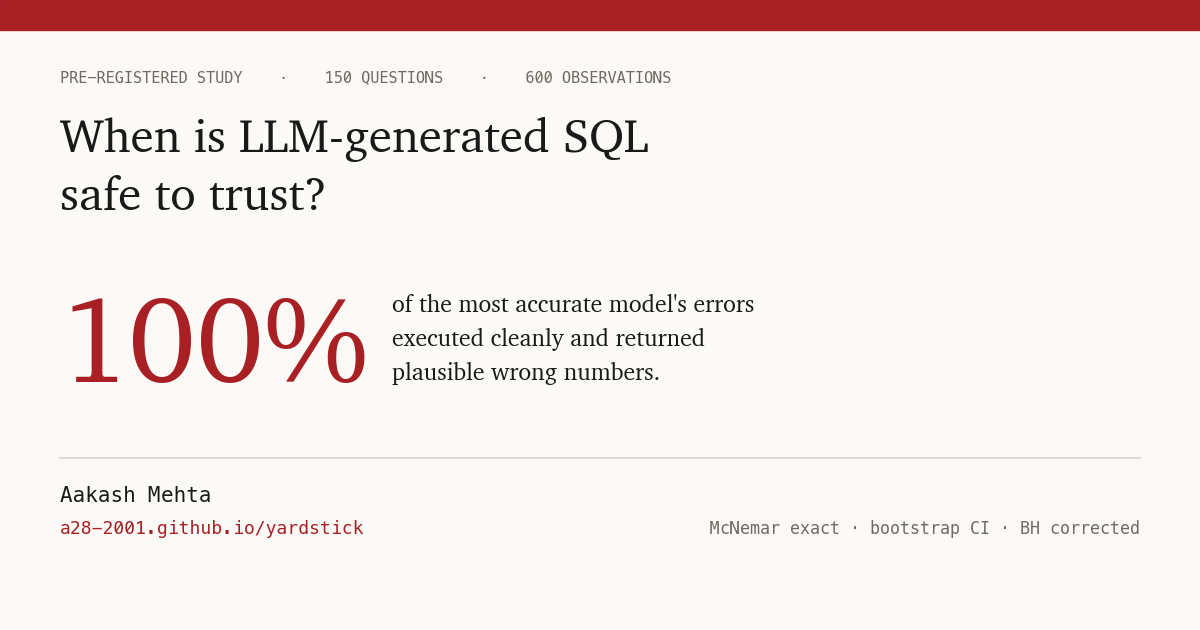
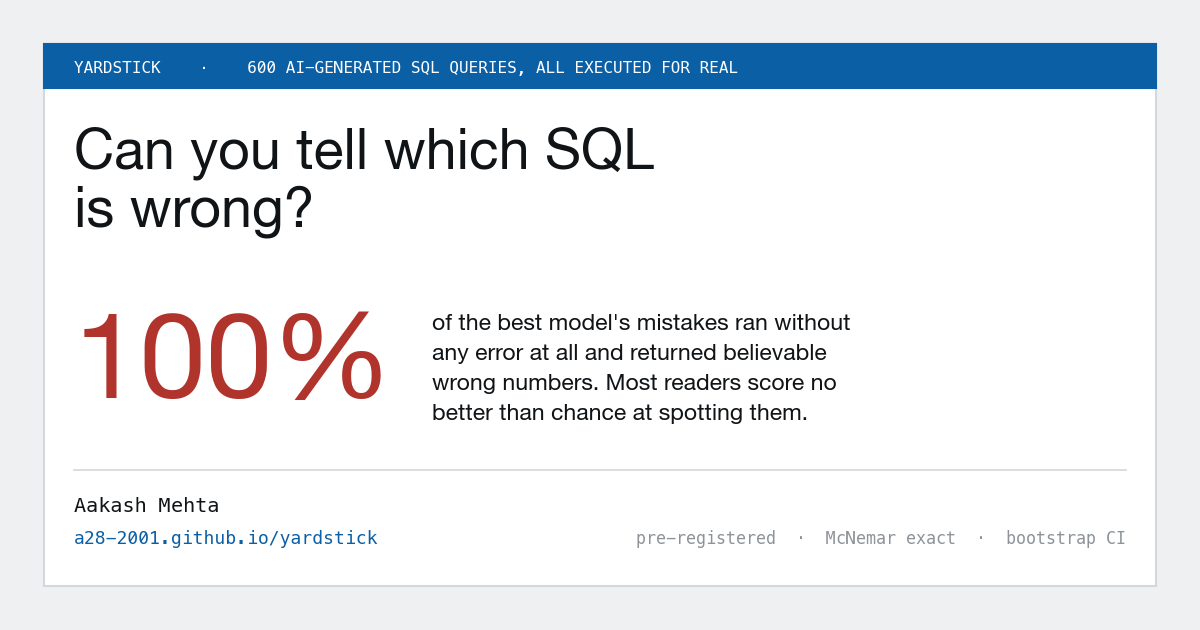
Rebuild the share card to match the landing page it links to
The card still carried the report's identity: the old title, Charter serif, warm cream, clinical red. The page it opens is the quiz, in cool greys with an instrument blue. A card that promises one thing and delivers another is a small broken promise at the worst possible moment, the second before someone decides whether to click.

Now matched to the landing page: same greys and panel, the same accent blue in a filled header bar, sans for display and mono for labels. The headline is the page's actual question rather than the report's, and the supporting line names the thing the quiz demonstrates: most readers score no better than chance.

Also tightened the gap between the number and its sentence; at 92pt the percent sign was almost touching the text.

diff --git a/scripts/make_figures.py b/scripts/make_figures.py
@@ -341,46 +341,60 @@ def fig_taxonomy():
 def fig_sharecard():
     """1200x630 open-graph card. Link scrapers crop to roughly 1.91:1 and render at
     thumbnail size, so a chart pasted in is unreadable. This is built for that size:
-    one number, one sentence, nothing else."""
+    one question, one number, nothing else.
+
+    Deliberately matched to the landing page rather than the report: same greys, the same
+    instrument blue, sans for display and mono for labels. A card promising one look and
+    delivering another is a small broken promise at the worst possible moment."""
     rows = {r["variant"]: r for r in read("variant_summary.csv")}
     share = float(rows["V3"]["silent_share_of_errors"]) * 100
+
+    # landing-page palette
+    BG, PANEL = "#eef0f2", "#ffffff"
+    C_INK, C_MID, C_SOFT = "#111417", "#6b7176", "#8d9398"
+    C_ACC, C_BAD, C_LINE = "#0b5fa5", "#b0342c", "#d3d8dc"
+    UI = ["Helvetica Neue", "Helvetica", "Arial", "DejaVu Sans", "sans-serif"]
 
     # 12in at 100dpi rather than 6in at 200: identical output size, but point sizes
     # then map to pixels at a sane 1.39x instead of 2.78x, which is what made the first
     # attempt collide with itself.
     fig = plt.figure(figsize=(12.0, 6.3), dpi=100)
-    fig.patch.set_facecolor("#fbfaf6")
+    fig.patch.set_facecolor(BG)
     ax = fig.add_axes([0, 0, 1, 1]); ax.axis("off")
     ax.set_xlim(0, 1200); ax.set_ylim(0, 630)
 
-    ax.add_patch(plt.Rectangle((0, 600), 1200, 30, color=SIGNAL, zorder=2))
+    # the page's panel, sitting on the page's ground
+    ax.add_patch(plt.Rectangle((44, 44), 1112, 542, facecolor=PANEL,
+                               edgecolor=C_LINE, lw=1.5, zorder=1))
+    ax.add_patch(plt.Rectangle((44, 542), 1112, 44, facecolor=C_ACC,
+                               edgecolor=C_ACC, lw=1.5, zorder=2))
+    ax.text(74, 557, "YARDSTICK    ·    600 AI-GENERATED SQL QUERIES, ALL EXECUTED FOR REAL",
+            fontsize=11.5, color="#ffffff", fontfamily=MONO, va="baseline", zorder=3)
 
-    ax.text(60, 548, "PRE-REGISTERED STUDY    ·    150 QUESTIONS    ·    600 OBSERVATIONS",
-            fontsize=11, color=MID, fontfamily=MONO, va="baseline")
+    ax.text(74, 462, "Can you tell which SQL", fontsize=40, color=C_INK,
+            fontweight="bold", fontfamily=UI, va="baseline", zorder=3)
+    ax.text(74, 404, "is wrong?", fontsize=40, color=C_INK,
+            fontweight="bold", fontfamily=UI, va="baseline", zorder=3)
 
-    ax.text(60, 478, "When is LLM-generated SQL", fontsize=34, color=INK,
-            fontweight="bold", fontfamily=SERIF, va="baseline")
-    ax.text(60, 420, "safe to trust?", fontsize=34, color=INK,
-            fontweight="bold", fontfamily=SERIF, va="baseline")
+    ax.text(74, 232, f"{share:.0f}%", fontsize=86, color=C_BAD, fontweight="bold",
+            fontfamily=UI, va="baseline", zorder=3)
+    for i, line in enumerate(["of the best model's mistakes ran without",
+                              "any error at all and returned believable",
+                              "wrong numbers. Most readers score no",
+                              "better than chance at spotting them."]):
+        ax.text(432, 300 - i * 30, line, fontsize=16.5, color=C_INK,
+                fontfamily=UI, va="baseline", zorder=3)
 
-    ax.text(60, 248, f"{share:.0f}%", fontsize=88, color=SIGNAL, fontweight="bold",
-            fontfamily=SERIF, va="baseline")
-    for i, line in enumerate(["of the most accurate model's errors",
-                              "executed cleanly and returned",
-                              "plausible wrong numbers."]):
-        ax.text(392, 318 - i * 34, line, fontsize=17, color=INK,
-                fontfamily=SERIF, va="baseline")
-
-    ax.plot([60, 1140], [172, 172], color=RULE, lw=1.2)
-    ax.text(60, 128, "Aakash Mehta", fontsize=15, color=INK, fontweight="bold",
-            fontfamily=MONO, va="baseline")
-    ax.text(60, 96, "a28-2001.github.io/yardstick", fontsize=13, color=SIGNAL,
-            fontfamily=MONO, va="baseline")
-    ax.text(1140, 96, "McNemar exact · bootstrap CI · BH corrected", fontsize=12,
-            color=MID, fontfamily=MONO, ha="right", va="baseline")
+    ax.plot([74, 1126], [160, 160], color=C_LINE, lw=1.2, zorder=3)
+    ax.text(74, 118, "Aakash Mehta", fontsize=14.5, color=C_INK, fontweight="bold",
+            fontfamily=MONO, va="baseline", zorder=3)
+    ax.text(74, 86, "a28-2001.github.io/yardstick", fontsize=13, color=C_ACC,
+            fontfamily=MONO, va="baseline", zorder=3)
+    ax.text(1126, 86, "pre-registered  ·  McNemar exact  ·  bootstrap CI",
+            fontsize=12, color=C_SOFT, fontfamily=MONO, ha="right", va="baseline", zorder=3)
 
     FIGDIR.mkdir(parents=True, exist_ok=True)
-    fig.savefig(FIGDIR / "share_card.png", dpi=100, facecolor="#fbfaf6",
+    fig.savefig(FIGDIR / "share_card.png", dpi=100, facecolor=BG,
                 bbox_inches=None, pad_inches=0)
     plt.close(fig)
     print("  share_card.png")
